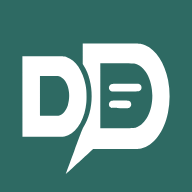
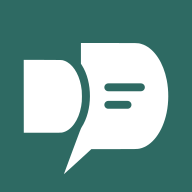
Add files via upload

diff --git a/index.html b/index.html
@@ -8,9 +8,9 @@
 <meta name="apple-mobile-web-app-capable" content="yes">
 <meta name="apple-mobile-web-app-title" content="Damda">
 <meta name="apple-mobile-web-app-status-bar-style" content="default">
-<link rel="manifest" href="manifest.webmanifest">
-<link rel="icon" type="image/png" sizes="192x192" href="icon-192.png">
-<link rel="apple-touch-icon" href="apple-touch-icon.png">
+<link rel="manifest" href="manifest.webmanifest?v=2">
+<link rel="icon" type="image/png" sizes="192x192" href="icon-192.png?v=2">
+<link rel="apple-touch-icon" href="apple-touch-icon.png?v=2">
 <title>Damda — 주제별 채팅 메모</title>
 <link rel="preconnect" href="https://fonts.googleapis.com">
 <link rel="preconnect" href="https://fonts.gstatic.com" crossorigin>
@@ -906,14 +906,14 @@ body.rzing *{user-select:none!important}
 <div id="phone">
 
   <div id="splash" aria-hidden="true">
-    <svg class="spi" viewBox="299 45 1032 1032"><path fill="currentColor" transform="translate(0 1152) scale(.1 -.1)" d="M7230 9717 L7230 9003 L7293 8904 C8046 7720 8038 5787 7274 4611 C7226 4535 7188 4440 6637 2957 C6314 2092 6052 1381 6053 1378 C6054 1374 6296 1593 6591 1864 C6886 2135 7204 2425 7297 2509 C7391 2594 7576 2763 7708 2884 L7949 3107 L9482 3108 C11066 3108 11119 3109 11285 3144 C12145 3329 12869 4293 13144 5617 C13293 6342 13296 7147 13153 7878 C12918 9069 12316 9990 11565 10309 C11519 10328 11435 10358 11375 10374 C11165 10435 11267 10432 9146 10432 L7230 10432 L7230 9717z M10800 9046 C11521 8916 12059 7962 12060 6815 C12060 5729 11596 4819 10928 4597 C10791 4551 10729 4549 9552 4552 L8450 4555 L8450 6803 C8450 8039 8450 9052 8450 9055 C8450 9068 10726 9059 10800 9046z M9259 7626 C8979 7566 8979 7164 9258 7104 C9341 7086 11079 7090 11132 7108 C11394 7197 11363 7577 11090 7629 C11008 7644 9332 7642 9259 7626z M9230 6465 C9030 6403 8985 6126 9155 5998 C9231 5940 9237 5940 9832 5940 C10418 5941 10411 5940 10490 5995 C10563 6046 10595 6111 10595 6210 C10595 6339 10531 6431 10416 6465 C10345 6486 9298 6486 9230 6465z M3046 6753 L3049 3965 L4466 3965 C5788 3965 5889 3966 5969 3981 C6668 4113 7249 4910 7436 5990 C7486 6280 7495 6400 7495 6750 C7495 7118 7482 7274 7422 7587 C7242 8540 6734 9282 6127 9481 C5952 9539 6061 9535 4482 9538 L3044 9541 L3046 6753z M5580 8153 C6161 7999 6472 6977 6194 6133 C6076 5776 5861 5521 5604 5433 L5547 5414 L4906 5411 L4264 5409 L4264 6789 L4264 8170 L4890 8170 C5497 8170 5518 8169 5580 8153z"/></svg>
+    <svg class="spi" viewBox="311.0 45 1032 1032"><g fill="currentColor" transform="translate(0 1152) scale(.1 -.1)"><path fill-rule="evenodd" d="M7230 9717 L7230 9003 L7293 8904 C8046 7720 8038 5787 7274 4611 C7226 4535 7188 4440 6637 2957 C6314 2092 6052 1381 6053 1378 C6054 1374 6296 1593 6591 1864 C6886 2135 7204 2425 7297 2509 C7391 2594 7576 2763 7708 2884 L7949 3107 L9482 3108 C11066 3108 11119 3109 11285 3144 C12145 3329 12869 4293 13144 5617 C13293 6342 13296 7147 13153 7878 C12918 9069 12316 9990 11565 10309 C11519 10328 11435 10358 11375 10374 C11165 10435 11267 10432 9146 10432 L7230 10432 L7230 9717z M9118.5 7102.8H11369.6A272 272 0 0 1 11369.6 7646.8H9118.5A272 272 0 0 1 9118.5 7102.8z M9118.5 5893.3H10445.6A272 272 0 0 1 10445.6 6437.3H9118.5A272 272 0 0 1 9118.5 5893.3z"/><path transform="translate(-195.37 0) translate(7495 6753) scale(0.9025) translate(-7495 -6753)" d="M3046 6753 L3049 3965 L4466 3965 C5788 3965 5889 3966 5969 3981 C6668 4113 7249 4910 7436 5990 C7486 6280 7495 6400 7495 6750 C7495 7118 7482 7274 7422 7587 C7242 8540 6734 9282 6127 9481 C5952 9539 6061 9535 4482 9538 L3044 9541 L3046 6753z"/></g></svg>
     <div class="spt"><svg viewBox="-300 -300 21431 6176" aria-label="Damda"><path fill="currentColor" fill-rule="evenodd" transform="translate(0 5576) scale(1 -1)" d="M5 0 L0 5576 L2606 5569 L2787 5565 L2883 5560 L2962 5551 L3017 5538 L3128 5500 L3218 5462 L3306 5417 L3391 5363 L3475 5303 L3557 5236 L3636 5161 L3674 5122 L3749 5038 L3821 4948 L3924 4802 L3988 4697 L4049 4588 L4134 4414 L4185 4292 L4232 4166 L4276 4035 L4314 3901 L4349 3763 L4387 3576 L4418 3392 L4434 3261 L4444 3129 L4449 2983 L4451 2812 L4450 2620 L4446 2467 L4438 2350 L4422 2217 L4392 2025 L4361 1865 L4324 1710 L4282 1559 L4259 1486 L4209 1343 L4154 1206 L4094 1075 L4030 950 L3961 831 L3888 718 L3812 613 L3731 515 L3647 425 L3560 342 L3469 268 L3376 202 L3280 144 L3181 96 L3131 75 L3029 41 L2925 16 L2865 9 L2763 4 L2203 0z M2684 4799 L2634 4809 L2585 4814 L2380 4820 L671 4822 L671 794 L2641 801 L2787 850 L2845 875 L2901 903 L2957 935 L3011 970 L3064 1008 L3140 1071 L3190 1118 L3238 1167 L3307 1246 L3351 1303 L3413 1393 L3452 1456 L3526 1591 L3575 1699 L3620 1812 L3664 1943 L3691 2037 L3715 2131 L3735 2226 L3753 2321 L3767 2417 L3778 2512 L3785 2608 L3790 2704 L3792 2799 L3787 2987 L3780 3081 L3758 3265 L3743 3355 L3705 3531 L3683 3617 L3629 3783 L3599 3864 L3566 3942 L3531 4017 L3494 4091 L3455 4161 L3413 4229 L3369 4294 L3323 4356 L3275 4415 L3225 4471 L3173 4523 L3119 4571 L3063 4616 L3005 4657 L2946 4693 L2885 4726 L2822 4754 L2757 4778z M6077 906 L6133 871 L6195 840 L6253 818 L6310 802 L6350 798 L6665 798 L6717 807 L6760 819 L6808 836 L6849 855 L6904 887 L6951 922 L6998 965 L7044 1018 L7055 1022 L7066 1024 L7077 1021 L7085 1016 L7094 1004 L7097 990 L7097 119 L7096 108 L7090 98 L7079 89 L7043 76 L6989 58 L6916 38 L6860 26 L6786 13 L6672 2 L6598 0 L6374 1 L6127 5 L6068 11 L5994 28 L5956 39 L5919 51 L5849 81 L5778 117 L5711 159 L5676 182 L5580 261 L5488 351 L5402 453 L5323 565 L5250 688 L5205 775 L5164 866 L5109 1010 L5062 1163 L5024 1323 L4992 1508 L4982 1587 L4976 1654 L4973 1741 L4971 1859 L4975 2101 L4986 2243 L5012 2402 L5045 2560 L5069 2653 L5097 2745 L5145 2877 L5180 2960 L5219 3042 L5282 3158 L5326 3230 L5374 3299 L5449 3396 L5529 3483 L5614 3560 L5673 3607 L5764 3666 L5857 3714 L5954 3751 L6009 3768 L6041 3775 L6098 3781 L6167 3785 L6446 3788 L8137 3792 L8149 3790 L8157 3785 L8168 3773 L8171 3758 L8167 34 L8165 22 L8161 14 L8148 3 L8134 0 L7534 0 L7522 2 L7512 8 L7505 16 L7501 27 L7500 3038 L6493 3037 L6368 3034 L6302 3027 L6249 3013 L6174 2985 L6136 2966 L6066 2923 L6001 2871 L5969 2842 L5911 2778 L5857 2707 L5808 2630 L5786 2589 L5746 2504 L5727 2459 L5696 2367 L5670 2270 L5650 2171 L5643 2120 L5633 2016 L5630 1911 L5631 1858 L5639 1751 L5654 1645 L5664 1592 L5690 1487 L5733 1361 L5779 1258 L5833 1163 L5869 1111 L5908 1061 L5948 1016 L5991 975 L6035 937z M8691 2378 L8697 2484 L8706 2555 L8717 2625 L8740 2729 L8769 2830 L8806 2930 L8850 3026 L8899 3118 L8955 3206 L8996 3262 L9039 3316 L9108 3392 L9182 3463 L9261 3527 L9343 3586 L9430 3637 L9520 3682 L9581 3707 L9644 3730 L9707 3749 L9804 3771 L9902 3785 L10001 3792 L10100 3790 L10198 3781 L10296 3764 L10392 3739 L10486 3707 L10578 3668 L10667 3621 L10752 3567 L10834 3507 L10911 3440 L10983 3367 L11041 3301 L11122 3392 L11196 3463 L11275 3527 L11330 3567 L11386 3604 L11474 3653 L11565 3695 L11658 3730 L11722 3749 L11786 3764 L11884 3781 L11949 3788 L12015 3792 L12114 3790 L12213 3781 L12310 3764 L12406 3739 L12469 3719 L12531 3695 L12622 3653 L12681 3621 L12739 3586 L12821 3527 L12874 3485 L12925 3440 L12974 3392 L13043 3316 L13086 3262 L13127 3206 L13165 3148 L13217 3057 L13248 2994 L13289 2897 L13313 2830 L13333 2763 L13358 2660 L13371 2590 L13381 2519 L13387 2449 L13391 2378 L13391 0 L12720 0 L12720 2342 L12715 2425 L12700 2507 L12675 2587 L12641 2663 L12597 2734 L12546 2799 L12487 2857 L12421 2907 L12350 2949 L12290 2976 L12211 3002 L12130 3017 L12065 3022 L11999 3020 L11917 3009 L11853 2993 L11791 2970 L11732 2942 L11661 2898 L11609 2857 L11551 2799 L11509 2747 L11472 2692 L11441 2633 L11410 2555 L11397 2507 L11386 2458 L11380 2409 L11377 2359 L11376 0 L10706 0 L10706 2342 L10700 2425 L10689 2491 L10677 2539 L10654 2602 L10626 2663 L10601 2706 L10573 2747 L10531 2799 L10485 2846 L10447 2878 L10407 2907 L10350 2942 L10306 2964 L10244 2988 L10197 3002 L10149 3012 L10083 3020 L10034 3022 L9984 3020 L9919 3012 L9871 3002 L9823 2988 L9762 2964 L9717 2942 L9661 2907 L9620 2878 L9583 2846 L9536 2799 L9494 2747 L9466 2706 L9441 2663 L9413 2602 L9391 2539 L9378 2491 L9367 2425 L9362 2342 L9362 0 L8691 0z M17111 5576 L17107 0 L15486 0 L15087 4 L15017 9 L14933 28 L14860 51 L14788 81 L14718 117 L14650 159 L14584 207 L14520 260 L14458 319 L14399 383 L14315 489 L14263 565 L14190 688 L14146 775 L14104 866 L14066 962 L14032 1060 L14002 1163 L13976 1268 L13948 1406 L13926 1553 L13915 1678 L13911 1876 L13914 2087 L13922 2205 L13937 2320 L13963 2463 L13997 2606 L14037 2744 L14085 2876 L14139 3002 L14200 3120 L14266 3230 L14338 3333 L14416 3426 L14497 3510 L14554 3560 L14613 3606 L14673 3647 L14735 3684 L14798 3715 L14862 3740 L14942 3766 L14991 3777 L15088 3784 L15270 3788 L16440 3791 L16440 5576z M15151 3000 L15077 2966 L15041 2946 L14973 2898 L14910 2842 L14880 2811 L14823 2744 L14772 2670 L14748 2631 L14705 2548 L14686 2504 L14651 2414 L14622 2319 L14610 2270 L14590 2170 L14583 2119 L14573 2016 L14570 1964 L14571 1858 L14574 1805 L14585 1698 L14604 1592 L14616 1539 L14646 1434 L14691 1319 L14719 1258 L14751 1200 L14797 1128 L14848 1062 L14916 988 L14976 936 L15038 892 L15104 855 L15172 825 L15260 798 L16440 794 L16440 3038 L15589 3038 L15336 3035 L15280 3032 L15246 3028 L15190 3013z M18737 906 L18793 871 L18855 840 L18913 818 L18970 802 L19010 798 L19325 798 L19377 807 L19420 819 L19468 836 L19509 855 L19564 887 L19611 922 L19658 965 L19704 1018 L19715 1022 L19726 1024 L19737 1021 L19745 1016 L19754 1004 L19757 990 L19757 119 L19756 108 L19750 98 L19739 89 L19703 76 L19649 58 L19576 38 L19520 26 L19446 13 L19332 2 L19258 0 L19034 1 L18787 5 L18728 11 L18654 28 L18616 39 L18579 51 L18509 81 L18438 117 L18371 159 L18336 182 L18240 261 L18148 351 L18062 453 L17983 565 L17910 688 L17865 775 L17824 866 L17769 1010 L17722 1163 L17684 1323 L17652 1508 L17642 1587 L17636 1654 L17633 1741 L17631 1859 L17635 2101 L17646 2243 L17672 2402 L17705 2560 L17729 2653 L17757 2745 L17805 2877 L17840 2960 L17879 3042 L17942 3158 L17986 3230 L18034 3299 L18109 3396 L18189 3483 L18274 3560 L18333 3607 L18424 3666 L18517 3714 L18614 3751 L18669 3768 L18701 3775 L18758 3781 L18827 3785 L19106 3788 L20797 3792 L20809 3790 L20817 3785 L20828 3773 L20831 3758 L20827 34 L20825 22 L20821 14 L20808 3 L20794 0 L20194 0 L20182 2 L20172 8 L20165 16 L20161 27 L20160 3038 L19153 3037 L19028 3034 L18962 3027 L18909 3013 L18834 2985 L18796 2966 L18726 2923 L18661 2871 L18629 2842 L18571 2778 L18517 2707 L18468 2630 L18446 2589 L18406 2504 L18387 2459 L18356 2367 L18330 2270 L18310 2171 L18303 2120 L18293 2016 L18290 1911 L18291 1858 L18299 1751 L18314 1645 L18324 1592 L18350 1487 L18393 1361 L18439 1258 L18493 1163 L18529 1111 L18568 1061 L18608 1016 L18651 975 L18695 937z"/></svg></div>
   </div>
 
 
   <section class="screen" id="scHome">
     <div class="bar">
-      <h1 class="logo"><svg class="lgm" viewBox="299 -39.3 3291 1032" role="img" aria-label="Damda"><g fill="currentColor" transform="translate(0 1152) scale(.1 -.1)"><path d="M7230 9717 L7230 9003 L7293 8904 C8046 7720 8038 5787 7274 4611 C7226 4535 7188 4440 6637 2957 C6314 2092 6052 1381 6053 1378 C6054 1374 6296 1593 6591 1864 C6886 2135 7204 2425 7297 2509 C7391 2594 7576 2763 7708 2884 L7949 3107 L9482 3108 C11066 3108 11119 3109 11285 3144 C12145 3329 12869 4293 13144 5617 C13293 6342 13296 7147 13153 7878 C12918 9069 12316 9990 11565 10309 C11519 10328 11435 10358 11375 10374 C11165 10435 11267 10432 9146 10432 L7230 10432 L7230 9717z M10800 9046 C11521 8916 12059 7962 12060 6815 C12060 5729 11596 4819 10928 4597 C10791 4551 10729 4549 9552 4552 L8450 4555 L8450 6803 C8450 8039 8450 9052 8450 9055 C8450 9068 10726 9059 10800 9046z M9259 7626 C8979 7566 8979 7164 9258 7104 C9341 7086 11079 7090 11132 7108 C11394 7197 11363 7577 11090 7629 C11008 7644 9332 7642 9259 7626z M9230 6465 C9030 6403 8985 6126 9155 5998 C9231 5940 9237 5940 9832 5940 C10418 5941 10411 5940 10490 5995 C10563 6046 10595 6111 10595 6210 C10595 6339 10531 6431 10416 6465 C10345 6486 9298 6486 9230 6465z M3046 6753 L3049 3965 L4466 3965 C5788 3965 5889 3966 5969 3981 C6668 4113 7249 4910 7436 5990 C7486 6280 7495 6400 7495 6750 C7495 7118 7482 7274 7422 7587 C7242 8540 6734 9282 6127 9481 C5952 9539 6061 9535 4482 9538 L3044 9541 L3046 6753z M5580 8153 C6161 7999 6472 6977 6194 6133 C6076 5776 5861 5521 5604 5433 L5547 5414 L4906 5411 L4264 5409 L4264 6789 L4264 8170 L4890 8170 C5497 8170 5518 8169 5580 8153z"/><path fill-rule="evenodd" transform="translate(16058 4104) scale(0.95)" d="M5 0 L0 5576 L2606 5569 L2787 5565 L2883 5560 L2962 5551 L3017 5538 L3128 5500 L3218 5462 L3306 5417 L3391 5363 L3475 5303 L3557 5236 L3636 5161 L3674 5122 L3749 5038 L3821 4948 L3924 4802 L3988 4697 L4049 4588 L4134 4414 L4185 4292 L4232 4166 L4276 4035 L4314 3901 L4349 3763 L4387 3576 L4418 3392 L4434 3261 L4444 3129 L4449 2983 L4451 2812 L4450 2620 L4446 2467 L4438 2350 L4422 2217 L4392 2025 L4361 1865 L4324 1710 L4282 1559 L4259 1486 L4209 1343 L4154 1206 L4094 1075 L4030 950 L3961 831 L3888 718 L3812 613 L3731 515 L3647 425 L3560 342 L3469 268 L3376 202 L3280 144 L3181 96 L3131 75 L3029 41 L2925 16 L2865 9 L2763 4 L2203 0z M2684 4799 L2634 4809 L2585 4814 L2380 4820 L671 4822 L671 794 L2641 801 L2787 850 L2845 875 L2901 903 L2957 935 L3011 970 L3064 1008 L3140 1071 L3190 1118 L3238 1167 L3307 1246 L3351 1303 L3413 1393 L3452 1456 L3526 1591 L3575 1699 L3620 1812 L3664 1943 L3691 2037 L3715 2131 L3735 2226 L3753 2321 L3767 2417 L3778 2512 L3785 2608 L3790 2704 L3792 2799 L3787 2987 L3780 3081 L3758 3265 L3743 3355 L3705 3531 L3683 3617 L3629 3783 L3599 3864 L3566 3942 L3531 4017 L3494 4091 L3455 4161 L3413 4229 L3369 4294 L3323 4356 L3275 4415 L3225 4471 L3173 4523 L3119 4571 L3063 4616 L3005 4657 L2946 4693 L2885 4726 L2822 4754 L2757 4778z M6077 906 L6133 871 L6195 840 L6253 818 L6310 802 L6350 798 L6665 798 L6717 807 L6760 819 L6808 836 L6849 855 L6904 887 L6951 922 L6998 965 L7044 1018 L7055 1022 L7066 1024 L7077 1021 L7085 1016 L7094 1004 L7097 990 L7097 119 L7096 108 L7090 98 L7079 89 L7043 76 L6989 58 L6916 38 L6860 26 L6786 13 L6672 2 L6598 0 L6374 1 L6127 5 L6068 11 L5994 28 L5956 39 L5919 51 L5849 81 L5778 117 L5711 159 L5676 182 L5580 261 L5488 351 L5402 453 L5323 565 L5250 688 L5205 775 L5164 866 L5109 1010 L5062 1163 L5024 1323 L4992 1508 L4982 1587 L4976 1654 L4973 1741 L4971 1859 L4975 2101 L4986 2243 L5012 2402 L5045 2560 L5069 2653 L5097 2745 L5145 2877 L5180 2960 L5219 3042 L5282 3158 L5326 3230 L5374 3299 L5449 3396 L5529 3483 L5614 3560 L5673 3607 L5764 3666 L5857 3714 L5954 3751 L6009 3768 L6041 3775 L6098 3781 L6167 3785 L6446 3788 L8137 3792 L8149 3790 L8157 3785 L8168 3773 L8171 3758 L8167 34 L8165 22 L8161 14 L8148 3 L8134 0 L7534 0 L7522 2 L7512 8 L7505 16 L7501 27 L7500 3038 L6493 3037 L6368 3034 L6302 3027 L6249 3013 L6174 2985 L6136 2966 L6066 2923 L6001 2871 L5969 2842 L5911 2778 L5857 2707 L5808 2630 L5786 2589 L5746 2504 L5727 2459 L5696 2367 L5670 2270 L5650 2171 L5643 2120 L5633 2016 L5630 1911 L5631 1858 L5639 1751 L5654 1645 L5664 1592 L5690 1487 L5733 1361 L5779 1258 L5833 1163 L5869 1111 L5908 1061 L5948 1016 L5991 975 L6035 937z M8691 2378 L8697 2484 L8706 2555 L8717 2625 L8740 2729 L8769 2830 L8806 2930 L8850 3026 L8899 3118 L8955 3206 L8996 3262 L9039 3316 L9108 3392 L9182 3463 L9261 3527 L9343 3586 L9430 3637 L9520 3682 L9581 3707 L9644 3730 L9707 3749 L9804 3771 L9902 3785 L10001 3792 L10100 3790 L10198 3781 L10296 3764 L10392 3739 L10486 3707 L10578 3668 L10667 3621 L10752 3567 L10834 3507 L10911 3440 L10983 3367 L11041 3301 L11122 3392 L11196 3463 L11275 3527 L11330 3567 L11386 3604 L11474 3653 L11565 3695 L11658 3730 L11722 3749 L11786 3764 L11884 3781 L11949 3788 L12015 3792 L12114 3790 L12213 3781 L12310 3764 L12406 3739 L12469 3719 L12531 3695 L12622 3653 L12681 3621 L12739 3586 L12821 3527 L12874 3485 L12925 3440 L12974 3392 L13043 3316 L13086 3262 L13127 3206 L13165 3148 L13217 3057 L13248 2994 L13289 2897 L13313 2830 L13333 2763 L13358 2660 L13371 2590 L13381 2519 L13387 2449 L13391 2378 L13391 0 L12720 0 L12720 2342 L12715 2425 L12700 2507 L12675 2587 L12641 2663 L12597 2734 L12546 2799 L12487 2857 L12421 2907 L12350 2949 L12290 2976 L12211 3002 L12130 3017 L12065 3022 L11999 3020 L11917 3009 L11853 2993 L11791 2970 L11732 2942 L11661 2898 L11609 2857 L11551 2799 L11509 2747 L11472 2692 L11441 2633 L11410 2555 L11397 2507 L11386 2458 L11380 2409 L11377 2359 L11376 0 L10706 0 L10706 2342 L10700 2425 L10689 2491 L10677 2539 L10654 2602 L10626 2663 L10601 2706 L10573 2747 L10531 2799 L10485 2846 L10447 2878 L10407 2907 L10350 2942 L10306 2964 L10244 2988 L10197 3002 L10149 3012 L10083 3020 L10034 3022 L9984 3020 L9919 3012 L9871 3002 L9823 2988 L9762 2964 L9717 2942 L9661 2907 L9620 2878 L9583 2846 L9536 2799 L9494 2747 L9466 2706 L9441 2663 L9413 2602 L9391 2539 L9378 2491 L9367 2425 L9362 2342 L9362 0 L8691 0z M17111 5576 L17107 0 L15486 0 L15087 4 L15017 9 L14933 28 L14860 51 L14788 81 L14718 117 L14650 159 L14584 207 L14520 260 L14458 319 L14399 383 L14315 489 L14263 565 L14190 688 L14146 775 L14104 866 L14066 962 L14032 1060 L14002 1163 L13976 1268 L13948 1406 L13926 1553 L13915 1678 L13911 1876 L13914 2087 L13922 2205 L13937 2320 L13963 2463 L13997 2606 L14037 2744 L14085 2876 L14139 3002 L14200 3120 L14266 3230 L14338 3333 L14416 3426 L14497 3510 L14554 3560 L14613 3606 L14673 3647 L14735 3684 L14798 3715 L14862 3740 L14942 3766 L14991 3777 L15088 3784 L15270 3788 L16440 3791 L16440 5576z M15151 3000 L15077 2966 L15041 2946 L14973 2898 L14910 2842 L14880 2811 L14823 2744 L14772 2670 L14748 2631 L14705 2548 L14686 2504 L14651 2414 L14622 2319 L14610 2270 L14590 2170 L14583 2119 L14573 2016 L14570 1964 L14571 1858 L14574 1805 L14585 1698 L14604 1592 L14616 1539 L14646 1434 L14691 1319 L14719 1258 L14751 1200 L14797 1128 L14848 1062 L14916 988 L14976 936 L15038 892 L15104 855 L15172 825 L15260 798 L16440 794 L16440 3038 L15589 3038 L15336 3035 L15280 3032 L15246 3028 L15190 3013z M18737 906 L18793 871 L18855 840 L18913 818 L18970 802 L19010 798 L19325 798 L19377 807 L19420 819 L19468 836 L19509 855 L19564 887 L19611 922 L19658 965 L19704 1018 L19715 1022 L19726 1024 L19737 1021 L19745 1016 L19754 1004 L19757 990 L19757 119 L19756 108 L19750 98 L19739 89 L19703 76 L19649 58 L19576 38 L19520 26 L19446 13 L19332 2 L19258 0 L19034 1 L18787 5 L18728 11 L18654 28 L18616 39 L18579 51 L18509 81 L18438 117 L18371 159 L18336 182 L18240 261 L18148 351 L18062 453 L17983 565 L17910 688 L17865 775 L17824 866 L17769 1010 L17722 1163 L17684 1323 L17652 1508 L17642 1587 L17636 1654 L17633 1741 L17631 1859 L17635 2101 L17646 2243 L17672 2402 L17705 2560 L17729 2653 L17757 2745 L17805 2877 L17840 2960 L17879 3042 L17942 3158 L17986 3230 L18034 3299 L18109 3396 L18189 3483 L18274 3560 L18333 3607 L18424 3666 L18517 3714 L18614 3751 L18669 3768 L18701 3775 L18758 3781 L18827 3785 L19106 3788 L20797 3792 L20809 3790 L20817 3785 L20828 3773 L20831 3758 L20827 34 L20825 22 L20821 14 L20808 3 L20794 0 L20194 0 L20182 2 L20172 8 L20165 16 L20161 27 L20160 3038 L19153 3037 L19028 3034 L18962 3027 L18909 3013 L18834 2985 L18796 2966 L18726 2923 L18661 2871 L18629 2842 L18571 2778 L18517 2707 L18468 2630 L18446 2589 L18406 2504 L18387 2459 L18356 2367 L18330 2270 L18310 2171 L18303 2120 L18293 2016 L18290 1911 L18291 1858 L18299 1751 L18314 1645 L18324 1592 L18350 1487 L18393 1361 L18439 1258 L18493 1163 L18529 1111 L18568 1061 L18608 1016 L18651 975 L18695 937z"/></g></svg></h1>
+      <h1 class="logo"><svg class="lgm" viewBox="322.9 -41.0 3267.1 1032" role="img" aria-label="Damda"><g fill="currentColor" transform="translate(0 1152) scale(.1 -.1)"><path fill-rule="evenodd" d="M7230 9717 L7230 9003 L7293 8904 C8046 7720 8038 5787 7274 4611 C7226 4535 7188 4440 6637 2957 C6314 2092 6052 1381 6053 1378 C6054 1374 6296 1593 6591 1864 C6886 2135 7204 2425 7297 2509 C7391 2594 7576 2763 7708 2884 L7949 3107 L9482 3108 C11066 3108 11119 3109 11285 3144 C12145 3329 12869 4293 13144 5617 C13293 6342 13296 7147 13153 7878 C12918 9069 12316 9990 11565 10309 C11519 10328 11435 10358 11375 10374 C11165 10435 11267 10432 9146 10432 L7230 10432 L7230 9717z M9118.5 7102.8H11369.6A272 272 0 0 1 11369.6 7646.8H9118.5A272 272 0 0 1 9118.5 7102.8z M9118.5 5893.3H10445.6A272 272 0 0 1 10445.6 6437.3H9118.5A272 272 0 0 1 9118.5 5893.3z"/><path transform="translate(-195.37 0) translate(7495 6753) scale(0.9025) translate(-7495 -6753)" d="M3046 6753 L3049 3965 L4466 3965 C5788 3965 5889 3966 5969 3981 C6668 4113 7249 4910 7436 5990 C7486 6280 7495 6400 7495 6750 C7495 7118 7482 7274 7422 7587 C7242 8540 6734 9282 6127 9481 C5952 9539 6061 9535 4482 9538 L3044 9541 L3046 6753z"/><path fill-rule="evenodd" transform="translate(16058 4121.4) scale(0.95)" d="M5 0 L0 5576 L2606 5569 L2787 5565 L2883 5560 L2962 5551 L3017 5538 L3128 5500 L3218 5462 L3306 5417 L3391 5363 L3475 5303 L3557 5236 L3636 5161 L3674 5122 L3749 5038 L3821 4948 L3924 4802 L3988 4697 L4049 4588 L4134 4414 L4185 4292 L4232 4166 L4276 4035 L4314 3901 L4349 3763 L4387 3576 L4418 3392 L4434 3261 L4444 3129 L4449 2983 L4451 2812 L4450 2620 L4446 2467 L4438 2350 L4422 2217 L4392 2025 L4361 1865 L4324 1710 L4282 1559 L4259 1486 L4209 1343 L4154 1206 L4094 1075 L4030 950 L3961 831 L3888 718 L3812 613 L3731 515 L3647 425 L3560 342 L3469 268 L3376 202 L3280 144 L3181 96 L3131 75 L3029 41 L2925 16 L2865 9 L2763 4 L2203 0z M2684 4799 L2634 4809 L2585 4814 L2380 4820 L671 4822 L671 794 L2641 801 L2787 850 L2845 875 L2901 903 L2957 935 L3011 970 L3064 1008 L3140 1071 L3190 1118 L3238 1167 L3307 1246 L3351 1303 L3413 1393 L3452 1456 L3526 1591 L3575 1699 L3620 1812 L3664 1943 L3691 2037 L3715 2131 L3735 2226 L3753 2321 L3767 2417 L3778 2512 L3785 2608 L3790 2704 L3792 2799 L3787 2987 L3780 3081 L3758 3265 L3743 3355 L3705 3531 L3683 3617 L3629 3783 L3599 3864 L3566 3942 L3531 4017 L3494 4091 L3455 4161 L3413 4229 L3369 4294 L3323 4356 L3275 4415 L3225 4471 L3173 4523 L3119 4571 L3063 4616 L3005 4657 L2946 4693 L2885 4726 L2822 4754 L2757 4778z M6077 906 L6133 871 L6195 840 L6253 818 L6310 802 L6350 798 L6665 798 L6717 807 L6760 819 L6808 836 L6849 855 L6904 887 L6951 922 L6998 965 L7044 1018 L7055 1022 L7066 1024 L7077 1021 L7085 1016 L7094 1004 L7097 990 L7097 119 L7096 108 L7090 98 L7079 89 L7043 76 L6989 58 L6916 38 L6860 26 L6786 13 L6672 2 L6598 0 L6374 1 L6127 5 L6068 11 L5994 28 L5956 39 L5919 51 L5849 81 L5778 117 L5711 159 L5676 182 L5580 261 L5488 351 L5402 453 L5323 565 L5250 688 L5205 775 L5164 866 L5109 1010 L5062 1163 L5024 1323 L4992 1508 L4982 1587 L4976 1654 L4973 1741 L4971 1859 L4975 2101 L4986 2243 L5012 2402 L5045 2560 L5069 2653 L5097 2745 L5145 2877 L5180 2960 L5219 3042 L5282 3158 L5326 3230 L5374 3299 L5449 3396 L5529 3483 L5614 3560 L5673 3607 L5764 3666 L5857 3714 L5954 3751 L6009 3768 L6041 3775 L6098 3781 L6167 3785 L6446 3788 L8137 3792 L8149 3790 L8157 3785 L8168 3773 L8171 3758 L8167 34 L8165 22 L8161 14 L8148 3 L8134 0 L7534 0 L7522 2 L7512 8 L7505 16 L7501 27 L7500 3038 L6493 3037 L6368 3034 L6302 3027 L6249 3013 L6174 2985 L6136 2966 L6066 2923 L6001 2871 L5969 2842 L5911 2778 L5857 2707 L5808 2630 L5786 2589 L5746 2504 L5727 2459 L5696 2367 L5670 2270 L5650 2171 L5643 2120 L5633 2016 L5630 1911 L5631 1858 L5639 1751 L5654 1645 L5664 1592 L5690 1487 L5733 1361 L5779 1258 L5833 1163 L5869 1111 L5908 1061 L5948 1016 L5991 975 L6035 937z M8691 2378 L8697 2484 L8706 2555 L8717 2625 L8740 2729 L8769 2830 L8806 2930 L8850 3026 L8899 3118 L8955 3206 L8996 3262 L9039 3316 L9108 3392 L9182 3463 L9261 3527 L9343 3586 L9430 3637 L9520 3682 L9581 3707 L9644 3730 L9707 3749 L9804 3771 L9902 3785 L10001 3792 L10100 3790 L10198 3781 L10296 3764 L10392 3739 L10486 3707 L10578 3668 L10667 3621 L10752 3567 L10834 3507 L10911 3440 L10983 3367 L11041 3301 L11122 3392 L11196 3463 L11275 3527 L11330 3567 L11386 3604 L11474 3653 L11565 3695 L11658 3730 L11722 3749 L11786 3764 L11884 3781 L11949 3788 L12015 3792 L12114 3790 L12213 3781 L12310 3764 L12406 3739 L12469 3719 L12531 3695 L12622 3653 L12681 3621 L12739 3586 L12821 3527 L12874 3485 L12925 3440 L12974 3392 L13043 3316 L13086 3262 L13127 3206 L13165 3148 L13217 3057 L13248 2994 L13289 2897 L13313 2830 L13333 2763 L13358 2660 L13371 2590 L13381 2519 L13387 2449 L13391 2378 L13391 0 L12720 0 L12720 2342 L12715 2425 L12700 2507 L12675 2587 L12641 2663 L12597 2734 L12546 2799 L12487 2857 L12421 2907 L12350 2949 L12290 2976 L12211 3002 L12130 3017 L12065 3022 L11999 3020 L11917 3009 L11853 2993 L11791 2970 L11732 2942 L11661 2898 L11609 2857 L11551 2799 L11509 2747 L11472 2692 L11441 2633 L11410 2555 L11397 2507 L11386 2458 L11380 2409 L11377 2359 L11376 0 L10706 0 L10706 2342 L10700 2425 L10689 2491 L10677 2539 L10654 2602 L10626 2663 L10601 2706 L10573 2747 L10531 2799 L10485 2846 L10447 2878 L10407 2907 L10350 2942 L10306 2964 L10244 2988 L10197 3002 L10149 3012 L10083 3020 L10034 3022 L9984 3020 L9919 3012 L9871 3002 L9823 2988 L9762 2964 L9717 2942 L9661 2907 L9620 2878 L9583 2846 L9536 2799 L9494 2747 L9466 2706 L9441 2663 L9413 2602 L9391 2539 L9378 2491 L9367 2425 L9362 2342 L9362 0 L8691 0z M17111 5576 L17107 0 L15486 0 L15087 4 L15017 9 L14933 28 L14860 51 L14788 81 L14718 117 L14650 159 L14584 207 L14520 260 L14458 319 L14399 383 L14315 489 L14263 565 L14190 688 L14146 775 L14104 866 L14066 962 L14032 1060 L14002 1163 L13976 1268 L13948 1406 L13926 1553 L13915 1678 L13911 1876 L13914 2087 L13922 2205 L13937 2320 L13963 2463 L13997 2606 L14037 2744 L14085 2876 L14139 3002 L14200 3120 L14266 3230 L14338 3333 L14416 3426 L14497 3510 L14554 3560 L14613 3606 L14673 3647 L14735 3684 L14798 3715 L14862 3740 L14942 3766 L14991 3777 L15088 3784 L15270 3788 L16440 3791 L16440 5576z M15151 3000 L15077 2966 L15041 2946 L14973 2898 L14910 2842 L14880 2811 L14823 2744 L14772 2670 L14748 2631 L14705 2548 L14686 2504 L14651 2414 L14622 2319 L14610 2270 L14590 2170 L14583 2119 L14573 2016 L14570 1964 L14571 1858 L14574 1805 L14585 1698 L14604 1592 L14616 1539 L14646 1434 L14691 1319 L14719 1258 L14751 1200 L14797 1128 L14848 1062 L14916 988 L14976 936 L15038 892 L15104 855 L15172 825 L15260 798 L16440 794 L16440 3038 L15589 3038 L15336 3035 L15280 3032 L15246 3028 L15190 3013z M18737 906 L18793 871 L18855 840 L18913 818 L18970 802 L19010 798 L19325 798 L19377 807 L19420 819 L19468 836 L19509 855 L19564 887 L19611 922 L19658 965 L19704 1018 L19715 1022 L19726 1024 L19737 1021 L19745 1016 L19754 1004 L19757 990 L19757 119 L19756 108 L19750 98 L19739 89 L19703 76 L19649 58 L19576 38 L19520 26 L19446 13 L19332 2 L19258 0 L19034 1 L18787 5 L18728 11 L18654 28 L18616 39 L18579 51 L18509 81 L18438 117 L18371 159 L18336 182 L18240 261 L18148 351 L18062 453 L17983 565 L17910 688 L17865 775 L17824 866 L17769 1010 L17722 1163 L17684 1323 L17652 1508 L17642 1587 L17636 1654 L17633 1741 L17631 1859 L17635 2101 L17646 2243 L17672 2402 L17705 2560 L17729 2653 L17757 2745 L17805 2877 L17840 2960 L17879 3042 L17942 3158 L17986 3230 L18034 3299 L18109 3396 L18189 3483 L18274 3560 L18333 3607 L18424 3666 L18517 3714 L18614 3751 L18669 3768 L18701 3775 L18758 3781 L18827 3785 L19106 3788 L20797 3792 L20809 3790 L20817 3785 L20828 3773 L20831 3758 L20827 34 L20825 22 L20821 14 L20808 3 L20794 0 L20194 0 L20182 2 L20172 8 L20165 16 L20161 27 L20160 3038 L19153 3037 L19028 3034 L18962 3027 L18909 3013 L18834 2985 L18796 2966 L18726 2923 L18661 2871 L18629 2842 L18571 2778 L18517 2707 L18468 2630 L18446 2589 L18406 2504 L18387 2459 L18356 2367 L18330 2270 L18310 2171 L18303 2120 L18293 2016 L18290 1911 L18291 1858 L18299 1751 L18314 1645 L18324 1592 L18350 1487 L18393 1361 L18439 1258 L18493 1163 L18529 1111 L18568 1061 L18608 1016 L18651 975 L18695 937z"/></g></svg></h1>
       <button class="ic" id="btnHomeCal" title="모든 방 일정">
         <svg viewBox="0 0 24 24"><rect x="3.5" y="5" width="17" height="15.5" rx="2.5"/><path d="M3.5 9.5h17M8 3v4M16 3v4"/></svg>
       </button>

diff --git a/sw.js b/sw.js
@@ -1,6 +1,6 @@
 /* 담다 — 오프라인에서도 열리게. 인터넷이 되면 항상 최신 버전을 먼저 받아온다. */
-const CACHE='damda-v1';
-const FILES=['./','index.html','manifest.webmanifest','icon-192.png','icon-512.png','apple-touch-icon.png'];
+const CACHE='damda-v3';
+const FILES=['./','index.html','manifest.webmanifest?v=3','icon-192.png?v=2','icon-512.png?v=2','icon-maskable-512.png?v=2','apple-touch-icon.png?v=2'];
 self.addEventListener('install',e=>{
   e.waitUntil(caches.open(CACHE).then(c=>c.addAll(FILES)).then(()=>self.skipWaiting()));
 });
